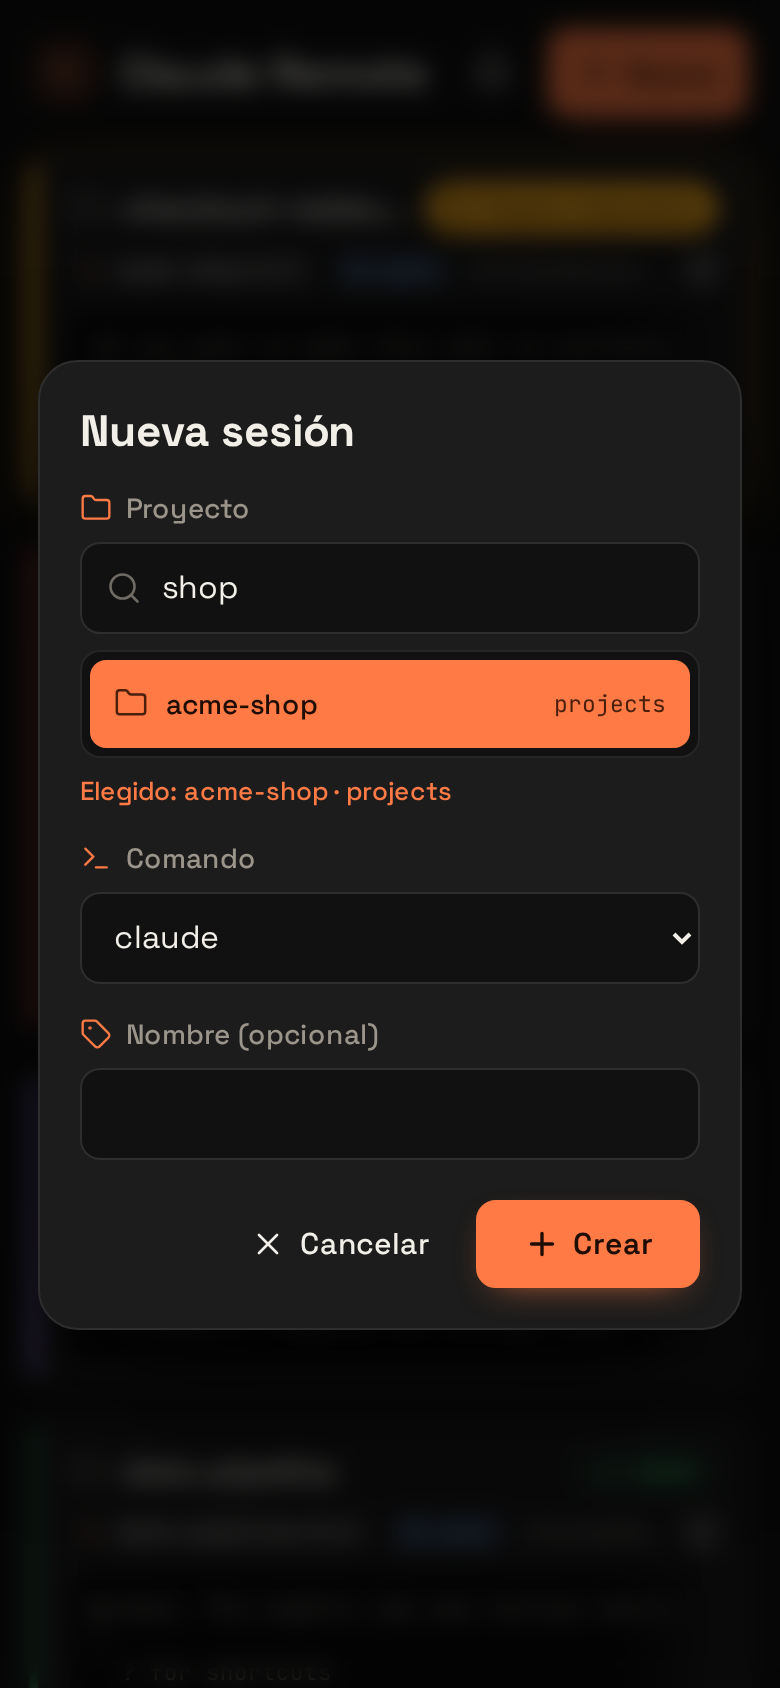
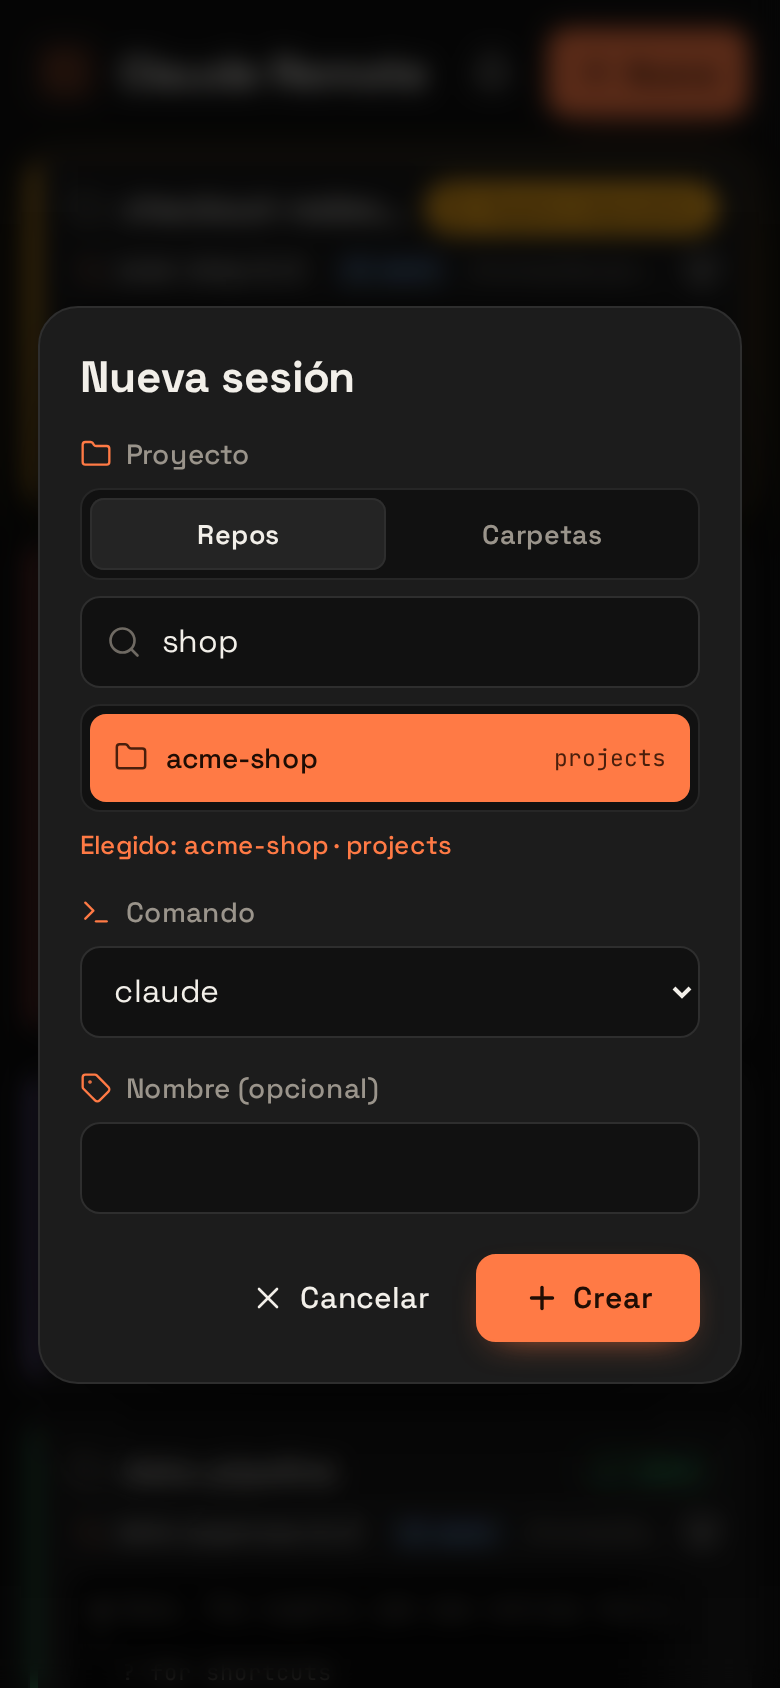
docs(screenshots): show the Repos | Carpetas toggle and the folder browser
The screenshot script mocks /api/dirs with a demo folder tree and renders
a new phone-new-folder.png; phone-new-session.png now shows the toggle.
Both READMEs show the folder browser under "New session".

diff --git a/README.es.md b/README.es.md
@@ -245,6 +245,8 @@ Toca **Nueva** en la barra superior:
 
 <br clear="right">
 
+<p align="center"><img src="docs/screenshots/phone-new-folder.png" width="240" alt="Explorador de carpetas"><br><sub><b>Carpetas</b>: explora cualquier carpeta</sub></p>
+
 ### Terminal
 
 <img src="docs/screenshots/phone-terminal.png" width="260" align="right" alt="Vista de terminal">

diff --git a/README.md b/README.md
@@ -246,6 +246,8 @@ Tap **Nueva** in the header:
 
 <br clear="right">
 
+<p align="center"><img src="docs/screenshots/phone-new-folder.png" width="240" alt="Folder browser"><br><sub><b>Carpetas</b>: browse any folder</sub></p>
+
 ### Terminal
 
 <img src="docs/screenshots/phone-terminal.png" width="260" align="right" alt="Terminal view">
